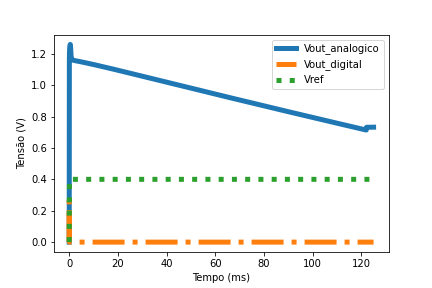
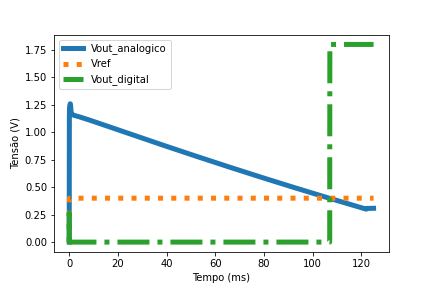
Alterações Davies

diff --git a/RevisaoBibliografica.tex b/RevisaoBibliografica.tex
@@ -14,7 +14,7 @@ Com a invenção do fototransistor e fotodiodo, e o desenvolvimento de tecnologi
 
 Em meados da d\'ecada de 70, o PPS (\textit{Passive Pixel Sensor}) foi desenvolvido, como alternativa aos dispositivos de imagem de tubo a vácuo \cite{Savvas}. Sua constituição se dá por uma matriz de fotodiodos, que convertem uma informação luminosa em el\'etrica, diretamente a um elemento processador de dados analógico, sem a utilização de um componente de amplificação.
 
-Ainda na d\'ecada de 70, os primeiros trabalhos relacionados ao APS foram desenvolvidos utilizando a tecnologia MOS (\textit{Metal-Oxide-Semiconductor}) \cite{Peter}. O APS \'e uma evolução direta do PPS, com a adição de um dispositivo amplificador \cite{EstevaoCoelho}. Amplificar o sinal permite uma maior precisão na aquisição dos dados, al\'em de permitir uma maior miniaturização do fotodiodo, o que leva a uma miniaturização de todo o sistema. Com a evolução da tecnologia CMOS (\textit{Complementary Metal-Oxide-Semiconductor}) na d\'ecada de 90, o APS se tornou mais atraente, por ser facilmente integrado com outros componentes que utilizam-se da mesma tecnologia em um mesmo circuito integrado. O APS vem desde então dominando o mercado de Recepção Óptica \cite{Andre, LidianeCampos}.
+Ainda na d\'ecada de 70, os primeiros trabalhos relacionados ao APS foram desenvolvidos utilizando a tecnologia MOS (\textit{Metal-Oxide-Semiconductor}) \cite{Peter}. O APS \'e uma evolução direta do PPS, com a adição de um dispositivo amplificador \cite{EstevaoCoelho}. Amplificar o sinal permite uma maior precisão na aquisição dos dados, al\'em de permitir uma maior miniaturização do fotodiodo, o que leva a uma miniaturização de todo o sistema. Com a evolução da tecnologia CMOS (\textit{Complementary Metal-Oxide-Semiconductor}) na d\'ecada de 90, o APS se tornou mais atraente, por ser facilmente integrado com outros componentes que utilizam-se da mesma tecnologia em um mesmo circuito integrado.
 
 Amplificadores Operacionais são circuitos amplamente utilizados para o desenvolvimento de sistemas analógicos. Desde a década de 60, o desenvolvimento de circuitos de comunicação óptica exploram a utilização de amplificadores para captação de sinais ópticos, transmissão e regeneração de sinais. A utilização de amplificadores operacionais junto à fotodiodos, possibilitam a conversão de sinais de luz em elétricas, que pode ser então processado e utilizado para fins tanto analógicos quanto digitais. O circuito comumente utilizado no processo de captação óptica de sinais digitais são variações do TIA, tendo papel fundamental para a expansão tecnológica que temos desde então. \cite{ajoy, andrefontoura}.
 
@@ -32,7 +32,7 @@ A Física Quântica nos diz que qualquer material apresenta níveis de energia p
 
 A Teoria das Bandas nasce da observação de que comumente uma grande quantidade de níveis de energia permitidos de um material se apresentam muito próximos entre si. Desses níveis de energia, surge-se o conceito “banda de energia”, que \'e a aproximação que dentro dessa faixa de níveis concentrados, temos uma representação contínua de níveis de energia permitidos. Um material pode apresentar uma grande quantidade de bandas, sendo que duas são de extremo interesse para o estudo de semicondutores: A Banda de condução e a Banda de valência.
 
-A Banda de valência \'e a última do qual se considera que um el\'etron está fortemente ligada a um átomo, não podendo mover livremente ao longo do material. A Banda de condução \'e a primeira banda de níveis acima da de valência, e nele já consideramos que um el\'etron \'e livre para se movimentar no material.
+A Banda de valência \'e a última da qual se considera que um el\'etron está fortemente ligada a um átomo, não podendo mover livremente ao longo do material. A Banda de condução \'e a primeira banda de níveis acima da de Valência, e nele já consideramos que um el\'etron \'e livre para se movimentar no material.
 
 \subsubsection{Fóton}
 
@@ -86,7 +86,9 @@ Onde:
     \item \textit{T} \'e a temperatura presente no fotodiodo [\textit{K}]
 \end{itemize}
 
-O fotodiodo em uma grande faixa apresenta comportamento linear, e \'e a faixa de principal interesse em aplicações como o APS ou o TIA. Com o aumento do n\'umero de f\'otons recebidos, o n\'ivel de corrente tende a ficar cada vez mais negativo, como mostrado na \autoref{fig_respFotodiodo}. Com o aumento ou diminuição expressiva, o circuito começa a se tornar não-linear.
+O fotodiodo em uma grande faixa apresenta comportamento linear em relação a quantidade de corrente fotogerada e o número de fótons recebidos, sendo essa a faixa de principal interesse em aplicações como o APS ou o TIA. Além disso, a corrente fotogerada e a queda de tensão entre os terminais do fotodiodo também tendem a apresentar resposta linear, como mostrado na \autoref{fig_respFotodiodo}. Com o aumento ou diminuição expressiva, o circuito começa a se tornar não-linear.
+
+Nota-se na \autoref{fig_respFotodiodo} que uma corrente e tensão negativa apresenta uma maior faixa de operação antes que ocorra a saturação do circuito. Isso ocorre pois a polarização reversa do fotodiodo aumenta a região de depleção, aprimorando a captação de fótons que podem ser convertidos em um sinal elétrico.
 
 \begin{figure}[!h]
 	\caption{\label{fig_respFotodiodo}Resposta Tensão x Corrente para dada intensidade luminosa no fotodiodo}
@@ -177,48 +179,6 @@ O Efeito Fotoel\'etrico se caracteriza pela excitação de el\'etrons em um mate
 
 Por outro lado, uma diminuição do comprimento de onda tende a excitar cada vez menos el\'etrons, pois a absorção na região de depleção deixa de acontecer, chegando a um ponto que o fotodiodo sature em resposta e não seja mais possível diferenciar diferentes frequências acima desta.
 Sabendo destas limitações, definimos a Resposta Espectral como a faixa de comprimentos de onda do qual o fotodetector \'e capaz de produzir uma fotocorrente correspondente.
-
-\subsubsection{Relação Sinal-Ruído}
-Razão entre a potência de sinal fotogerada pela pot\^encia de ru\'ido no sinal.
-
-\begin{equation}
-    SNR = \frac{P_{SINAL}}{P_{Ru\acute{i}do}}
-\end{equation}
-
-Onde:
-\begin{itemize}
-    \item \textit{SNR} \'e relação sinal-ru\'ido [\textit{Adm.}]
-    \item \textit{P\textsubscript{SINAL}} \'e a pot\^encia do sinal fotogerado [\textit{W}]
-    \item \textit{V\textsubscript{D}} \'e a pot\^encia do ruido do sinal fotogerado [\textit{W}]
-\end{itemize}
-
-\subsubsection{Pot\^encia equivalente ao ru\'ido}
-Pot\^encia da luz incidida no fotodiodo, que gera uma potência de sinal equivalente ao de ruído em largura de 1 Hz
-
-\begin{equation}
-    NEP = P_{Ru\acute{i}do 1 H}
-\end{equation}
-
-Onde:
-\begin{itemize}
-    \item \textit{NEP} \'e a pot\^encia da luz incidida no fotodiodo [\textit{W}]
-    \item \textit{P\textsubscript{Ruído 1 Hz}} \'e a potência do ruído em largura de 1 Hz [\textit{W}]
-\end{itemize}
-
-\subsubsection{Detectividade espec\'ifica}
-Razão entre a raiz quadrada da área fotossensível do diodo, sobre o NEP
-
-\begin{equation}
-    D* = \frac{\sqrt{A.B}}{NEP}
-\end{equation}
-
-Onde:
-
-\begin{itemize}
-    \item \textit{D*} \'e a detectividade espec\'ifica [$cm.\sqrt{Hz}.W^{-1}$]
-    \item \textit{A} \'e a \'area da região fotossens\'ivel do fotodiodo [\textit{cm²}]
-    \item \textit{A} \'e a largura de banda [\textit{Hz}]
-\end{itemize}
 
 \section{Sensor de Pixel Ativo (APS)}
 \label{section:APS}
@@ -380,7 +340,7 @@ Um amplificador de transimped\^ancia \'e um circuito em que dada uma corrente de
 	\begin{center}
 	    \includegraphics[scale=0.3]{Circuitos/TIA.png}
 	\end{center}
-	\legend{Fonte da ilustra ão: Pr\'oprio autor}
+	\legend{Fonte da ilustração: Pr\'oprio autor}
 \end{figure}
 
 Onde:
@@ -420,23 +380,31 @@ Considerando $R_{sh} >> R$, chegamos à \autoref{eqCTIA2}, utilizada no projeto 
 Como a imped\^ancia de entrada do $TIA$ não \'e ideal (infinita) e varia com a frequ\^encia e temperatura, o circuito não se apresenta linear em toda sua banda de operação, o que representa uma variação na resposta em frequ\^encia de acordo com a corrente fotogerada \cite{hamamatsu}.
 Como o pr\'oprio amplificador apresenta capacit\^ancias internas, o circuito \'e tamb\'em limitado em altas frequ\^encias, principalmente pelo produto $R$ vezes $C$, onde C \'e a capacit\^ancia interna vista pelos terminais de $R$ \cite{hamamatsu}.
 
-Dada as duas propriedades, a \autoref{figura_respostaTIA} e a \autoref{figura_respostaTIA2} mostram o comportamento t\'ipico de resposta em frequ\^encia da topologia.
+A \autoref{figura_respostaTIA} e a \autoref{figura_respostaTIA2} mostram o comportamento t\'ipico de resposta em frequ\^encia da topologia. O pico observado na \autoref{figura_respostaTIA} é característico de um sistema de 2ª ordem e acontece devido a capacitância vista nos terminais do fotodiodo, em conjunto com capacitâncias internas ao amplificador e na saída. Para reduzir esse efeito, um capacitor pode ser adicionado em paralelo ao resistor \textit{R}, com valor precisamente calculado de forma a atenuar o pico (formando um circuito denominado \textit{CTIA}). A\autoref{figura_respostaTIA2} mostra as oscilações presentes em resposta a um pulso, que da mesma forma, também podem ser atenuados utilizado o mesmo capacitor.
 
 \begin{figure}[!h]
- \centering
+    \begin{minipage}{0.4\textwidth}
     \centering
     \caption{\label{figura_respostaTIA}Resposta espectral de um TIA}
-	\begin{center}
-	    \includegraphics[scale=0.8]{Imagens/RespostaEspectralTIA.png}
-	\end{center}
+	\includegraphics[scale=0.8]{Imagens/RespostaEspectralTIA.png}
 	\legend{Fonte: \cite{hamamatsu}}
+	\end{minipage}
+	 \hfill
+  \begin{minipage}{0.4\textwidth}
+    \centering
+    \caption{\label{figura_respostaTIA2}Resposta a um pulso em um TIA}
+    \includegraphics[scale=0.8]{Imagens/RespostaEspectralTIA2.png}
+    \legend{Fonte: \cite{hamamatsu}}
+  \end{minipage}
+  
+	
 \end{figure}
 
 \begin{figure}[!h]
     \centering
-    \caption{\label{figura_respostaTIA2}Resposta a um pulso em um TIA}
+    
 	\begin{center}
-	    \includegraphics[scale=0.8]{Imagens/RespostaEspectralTIA2.png}
+	    
 	\end{center}
 	\legend{Fonte: \cite{hamamatsu}}
 \end{figure}

diff --git a/Resumo.tex b/Resumo.tex
@@ -6,7 +6,7 @@
 \setlength{\absparsep}{18pt} % ajusta o espaçamento dos parágrafos do resumo
 \begin{resumo}
 
-O trabalho explora a implementação de Optoreceptores utilizando uma tecnologia \textit{CMOS TSMC 180 nm} da TSMC. São projetados um pixel do tipo APS (Active Sensor Pixel) e um Amplificador de Transimpedância (TIA). O projeto completo do optoreceptor contém quatro instâncias do pixel APS e uma instância do TIA. Além disso, para permitir a avaliação do sistema proposto, um pixel APS e um TIA adicionais foram incluídos no chip. Três APS’s t\^em a função de captação de uma cor distinta (Azul, Verde ou Vermelho) de uma fonte luminosa. O circuito desenvolvido é feito de maneira idêntica para as 3 cores, e um filtro de luz externo é utilizado para que seja captada apenas a cor de interesse. O APS é constituído por um fotodiodo quadrado de dimensões 25x25 µm (625 µm²), e um circuito para conversão da corrente fotogerada para uma tensão de saída. Na saída do APS, o sinal é comparado à uma tensão de referência durante sua digitalização. A tensão de referência é programável, permitindo flexibilidade na digitalização de diferentes intensidades de corrente fotogerada. Um APS é utilizado apenas para fins de teste e seu projeto elétrico é igual aos demais, com exceção de um pino extra do qual pode ser drenada uma corrente elétrica que emula o efeito fotocondutivo, sem a presença da luz. O TIA tem a função de extrair um sinal de referência de relógio a partir de uma fonte luminosa, e servir como referência temporal para os outros circuitos, por exemplo, os pixeis APS’s. O fotodiodo utilizado tem dimensão de 25x25 µm (625 µm²). O circuito foi projetado de forma a permitir uma frequência nominal de operação de 100 kHz. Assim como o APS de teste, existe um segundo TIA com um pino extra para simular uma fotocorrente sem a presença de luz. O layout de diversos circuitos analógicos e de sinais mistos auxiliares para a operação do APS e do TIA foram também projetados. O circuito integrado completo ocupa uma área de 1,6x1,6 mm (2,56 mm²), pois também contém um oscilador de tensão, sensor de temperatura, e acionadores de microLEDS. O projeto foi submetido para fabricação em setembro de 2020, e sua caracterização será possível a partir de março de 2021.
+O trabalho explora a implementação de Optoreceptores utilizando uma tecnologia \textit{CMOS TSMC 180 nm} da TSMC. São projetados um pixel do tipo APS (Active Sensor Pixel) e um Amplificador de Transimpedância (TIA). O projeto completo do optoreceptor contém quatro instâncias do pixel APS e uma instância do TIA. Além disso, para permitir a avaliação do sistema proposto, um pixel APS e um TIA adicionais foram incluídos no chip. Três APS’s t\^em a função de captação de uma cor distinta (Azul, Verde ou Vermelho) de uma fonte luminosa. O circuito desenvolvido é feito de maneira idêntica para as 3 cores, e um filtro de luz externo é utilizado para que seja captada apenas a cor de interesse. O APS é constituído por um fotodiodo quadrado de dimensões 25x25 µm (625 µm²), e um circuito para conversão da corrente fotogerada para uma tensão de saída. Na saída do APS, o sinal é comparado à uma tensão de referência durante sua digitalização. A tensão de referência é programável, permitindo flexibilidade na digitalização de diferentes intensidades de corrente fotogerada. Um APS é utilizado apenas para fins de teste e seu projeto elétrico é igual aos demais, com a adição de um pino extra para injeção de uma corrente elétrica emulando a fotogeração, sem a presença da luz. O TIA tem a função de extrair um sinal de referência de relógio a partir de uma fonte luminosa, e servir como referência temporal para os outros circuitos, por exemplo, os pixeis APS’s. O fotodiodo utilizado tem dimensão de 25x25 µm (625 µm²). O circuito foi projetado de forma a permitir uma frequência nominal de operação de 100 kHz. Assim como o APS de teste, existe um segundo TIA com um pino extra para simular uma fotocorrente sem a presença de luz. O projeto de diversos circuitos analógicos e de sinais mistos auxiliares para a operação do APS e do TIA foram também realizados. O circuito integrado completo ocupa uma área de 1,6x1,6 mm (2,56 mm²), pois também contém um oscilador de tensão, sensor de temperatura, e acionadores de microLEDS. O projeto foi submetido para fabricação em setembro de 2020, e sua caracterização será possível a partir de março de 2021.
 
 \vspace{\onelineskip}
  

diff --git a/ResumoIngles.tex b/ResumoIngles.tex
@@ -3,7 +3,7 @@
 \begin{resumo}[Abstract]
  \begin{otherlanguage*}{english}
 
-This work explores the implementation of Optoreceptors using a \textit{CMOS TSMC 180 nm} technology from TSMC. An APS (Active Sensor Pixel) and a Transimpedance Amplifier (TIA) are proposed. Three APSs have the function of capturing different colors (Blue, Green or Red) from a light source. The developed circuit is made identically for the 3 colors, and an external light filter is used so that only the color of interest is captured. The APS consists of a square photodiode of dimensions 25x25$\mu$m (625$\mu$m²), associated with a circuit for converting the photogenerated current to an output voltage. At the APS output, the signal is compared to a reference voltage during its digitalization. Reference voltage is programmable, allowing flexibility in digitalizing different intensities of photogenerated current. An APS is used only for testing purposes and its electrical design is the same as the others, with the exception of an extra pin from which an electric current that emulates the photoconductive effect can be drained, without the presence of light. The TIA has the function of extracting a clock reference signal from a light source, at the same time as it serves as a time reference for other circuits, for example, APSs pixels. The photodiode used has a dimension of 25x25$\mu$m (625$\mu$m²). The circuit was designed to allow a nominal operating frequency of 100 kHz. Like the test APS, there is a second TIA with an extra pin to simulate a photocurrent without the presence of light. The layout design for several analog circuits and auxiliary mixed signals blocks related to the operation of the APS and the TIA devices were also made on this work. The complete integrated circuit occupies an area of 1.6x1.6 mm (2.56 mm²), as it also contains a voltage oscillator, temperature sensor, and microLEDS actuators. The project was submitted for production in September 2020, and its characterization will be possible from March 2021.
+This work explores the implementation of Optoreceptors using a \textit{CMOS TSMC 180 nm} technology from TSMC. An APS (Active Sensor Pixel) and a Transimpedance Amplifier (TIA) are proposed. Three APSs have the function of capturing different colors (Blue, Green or Red) from a light source. The developed circuit is made identically for the 3 colors, and an external light filter is used so that only the color of interest is captured. The APS consists of a square photodiode of dimensions 25x25$\mu$m (625$\mu$m²), associated with a circuit for converting the photogenerated current to an output voltage. At the APS output, the signal is compared to a reference voltage during its digitalization. Reference voltage is programmable, allowing flexibility in digitalizing different intensities of photogenerated current. An APS is used only for testing purposes and its electrical design is the same as the others, with the addition of an extra pin for injecting an electric current emulating photogeneration, without the presence of light. The TIA has the function of extracting a clock reference signal from a light source, at the same time as it serves as a time reference for other circuits, for example, APSs pixels. The photodiode used has a dimension of 25x25$\mu$m (625$\mu$m²). The circuit was designed to allow a nominal operating frequency of 100 kHz. Like the test APS, there is a second TIA with an extra pin to simulate a photocurrent without the presence of light. The design of several analog circuits and mixed auxiliary signals for the functioning of the APS and TIA were also carried out. The complete integrated circuit occupies an area of 1.6x1.6 mm (2.56 mm²), as it also contains a voltage oscillator, temperature sensor, and microLEDS actuators. The project was submitted for production in September 2020, and its characterization will be possible from March 2021.
 
    \vspace{\onelineskip}
  

diff --git a/Introducao.tex b/Introducao.tex
@@ -6,7 +6,7 @@
 % ----------------------------------------------------------
 Receptores ópticos têm uma vasta gama de aplicações. Podemos utilizá-los para detectar a presença ou ausência de luz no ambiente em determinada faixa de frequência; recepção de sinais luminosos de diferentes cores para construir uma foto em uma câmera; recepção de sinais codificados em luz para realizar uma transmissão de dados sem fio (Li-Fi); detecção de temperatura em um objeto via a sua emissão de luz infravermelha; entre incontáveis outras utilidades. A forma como o circuito do sensor é desenvolvido varia muito com a aplicação, e diversas topologias podem ser utilizadas. Mesmo dentro de uma classe específica de sensores, diversas variações de circuitos podem existir.
 
-Neste trabalho, é desenvolvido o projeto eletrônico dos principais blocos analógicos de um Receptor \'Optico integrado em tecnologia CMOS de 180 nm. Para realizar a recepção dos dados, um pixel ativo do tipo APS (\textit{Active Pixel Sensor}) e um TIA (\textit{Transimpedance Amplifier}) para captação de refer\^encia de temporização foram projetados. O APS e o TIA são topologias muito estudadas e utilizadas, devido principalmente à facilidade com que podem ser integrados em um CI utilizando tecnologia CMOS, sua facilidade de acoplamento com outros circuitos do mesmo CI, e também pelo baixo custo por pixel em comparação a outros tipos de Receptores Ópticos. 
+Neste trabalho, é desenvolvido o projeto eletrônico dos principais blocos analógicos de um Receptor \'Optico integrado em tecnologia CMOS de 180 nm. Para realizar a recepção dos dados, um pixel ativo do tipo APS (\textit{Active Pixel Sensor}) e um TIA (\textit{Transimpedance Amplifier}) para captação de refer\^encia de temporização foram projetados. O APS e o TIA são topologias muito estudadas e utilizadas, devido principalmente à facilidade com que podem ser integrados em um CI utilizando tecnologia CMOS e também sua facilidade de acoplamento com outros circuitos do mesmo CI.
 
 Junto à construção dos blocos citados, diversos outros circuitos são necessários para que se permita o condicionamento e processamento do sinal luminoso transferido para o domínio elétrico. Dentre os circuitos auxiliares que compõem todo um sistema de Pixel Ativo, podemos citar Amplificadores Operacionais, utilizados para amplificar o sinal gerado pelo sensor; circuitos geradores de temporização, que definem o momento de captação de luz do pixel e momento este poderá ser operado; e circuitos de controle que devem ser utilizados para garantir sincronia entre todos elementos do sistema
 

diff --git a/Resultados/Simulacoes.tex b/Resultados/Simulacoes.tex
@@ -29,10 +29,7 @@ Máximo & 30\\
 
 É avaliado qual a resposta do APS com a presença de uma fotocorrente. Para a simulação, foi considerado o modelo apresentado na \autoref{fig_APS_cap}, do qual há uma fonte de corrente em paralelo a um diodo representando a fotogeração. A corrente \textit{Iref} considerada foi de $500$ nA, fornecida pelo bloco \textit{current\_mirror\_nmos}.
 
-O Período de Reset nas simulações é definido para ter uma duração de $1$ us. Ao realizarmos as medições do circuito fabricado, desejamos que o valor da saída do APS esteja estabilizado no seu valor máximo, para que o valor de inicio do estágio esteja sempre fixado. Em simulação isso não é necessário, pois conseguimos calcular a inclinação da curva sem erros significativos.
-
-Dois valores para o Período de Integração foram considerados, como mostrado nas próximas subseções.
-Dois cenários de simulação são descritos nas subseções \ref{sub_sec121} e \ref{sub_sec247} são apresentados, sendo suficientes para comprovação da operação do circuito. O primeiro cenário modela o sinal de fotocorrente gerada com uma onda quadrada de 8 kHz (período de 125 $\mu$s) e valor de amplitude de 5 nA. O segundo cenário modela o sinal de fotocorrente gerada com uma onda quadrada de 4 kHz (período de 250 $\mu$s) e valor de amplitude de 2,5 nA. Esses e outros valores de corrente fotogeradas sugeridos pelo trabalho \cite{LidianeCampos} foram testados na topologia implementada.
+O Período de Reset nas simulações é definido para ter uma duração de $1$ us. Dois cenários de simulação são descritos nas subseções \ref{sub_sec121} e \ref{sub_sec247} são apresentados, sendo suficientes para comprovação da operação do circuito. O primeiro cenário modela o sinal de fotocorrente gerada com uma onda quadrada de 8 kHz (período de 125 $\mu$s) e valor de amplitude de 5 nA. O segundo cenário modela o sinal de fotocorrente gerada com uma onda quadrada de 4 kHz (período de 250 $\mu$s) e valor de amplitude de 2,5 nA. Esses e outros valores de corrente fotogeradas sugeridos pelo trabalho \cite{LidianeCampos} foram testados na topologia implementada.
 
 \subsection{Período de Integração igual a 121 $\mu$s}
 \label{sub_sec121}

diff --git a/Projeto/Espelhos/iref_generator.tex b/Projeto/Espelhos/iref_generator.tex
@@ -93,7 +93,7 @@ Q17b² e Q18b²                                                                 
 O resistor \emph{R} utilizado no bloco apresenta os par\^ametros mostrado na \autoref{\NomeQTab}.
 
 \begin{table}[!h]
-\caption{Resistores do bloco \NomeBloco}
+\caption{Resistor do bloco \NomeBloco}
 \label{\NomeQTab}
 \centering
 \begin{tabular}{cccc}
@@ -106,7 +106,7 @@ R & 3 & 404,4 & 141,996\\
 \legend{Fonte: Produzido pelo autor}
 \end{table}
 
-Os transistores \emph{Q6} e \emph{Q9}, juntos aos resistores \emph{R1} e \emph{R2}, t\^em a finalidade de funcionarem como um dreno de corrente referenciados pelos resistores. Os transistores \emph{Q4} e \emph{Q7} t\^em a finalidade de funcionarem como uma fonte de corrente, referenciados pelo dreno de corrente j\'a mencionado. O transistor \emph{Q10} \'e o braço do espelho de corrente do qual fornece a corrente de sa\'ida.
+Os transistores \emph{Q6} e \emph{Q9}, juntos ao resistor R, t\^em a finalidade de funcionarem como um dreno de corrente referenciados pelo resistor. Os transistores \emph{Q4} e \emph{Q7} t\^em a finalidade de funcionarem como uma fonte de corrente, referenciados pelo dreno de corrente j\'a mencionado. O transistor \emph{Q10} \'e o braço do espelho de corrente do qual fornece a corrente de sa\'ida.
 
 Os transistores \emph{Q5}, \emph{Q8} e \emph{Q11} se apresentam na configuração \emph{Cascode}, que tem o intuito de tornar o espelho de corrente de resposta mais linear, aumentar sua banda e ainda aumentar as suas resist\^encias de entrada e sa\'ida.
 

diff --git a/Projeto/Layout/Chip.tex b/Projeto/Layout/Chip.tex
@@ -2,7 +2,7 @@
 
 O circuito integrado apresentado na \autoref{fig_circintegrado} foi desenvolvido, contendo todo o projeto de Receptor Óptico além de outros projetos desenvolvidos por terceiros. A \autoref{fig_circintegrado_division} mostra de maneira explicita o que representa cada parte do CI, e referências aos outros projetos desenvolvidos.
 
-O circuito integrado apresenta uma área total de 2x2 mm\textsuperscript{2} (2,56 mm\textsuperscript{2}), utilizando um encapsulamento do tipo CLCC44\footnote{Especificações do encapsulamento presentes no \autoref{anexo_clcc44}}. A \autoref{tab_clcc44} apresenta a relação da numeração dos pinos do encapsulamento com os pinos chip, que são distintos, além da identificação de cada pino.
+O circuito integrado apresenta uma área total de 1,6x1,6 mm\textsuperscript{2} (2,56 mm\textsuperscript{2}), utilizando um encapsulamento do tipo CLCC44\footnote{Especificações do encapsulamento presentes no \autoref{anexo_clcc44}}. A \autoref{tab_clcc44} apresenta a relação da numeração dos pinos do encapsulamento com os pinos chip, que são distintos, além da identificação de cada pino.
 
 Diversos capacitores de desacoplamento foram incluídos ao longo de todo chip, com o objetivo de preencher áreas não utilizadas e também filtrar ruídos apresentados nos sinais das fontes de alimentação que chegam e percorrem o chip. 
 

diff --git a/Projeto/APS_digitalized.tex b/Projeto/APS_digitalized.tex
@@ -62,7 +62,7 @@ Utilizando o elemento comparador, podemos ajustar para que a sa\'ida retorne '0'
 
 \begin{equation}
     \label{eq_apsd}
-    P_{FD} = \frac{(AnOut_0-V_{ref})(C_{j}+C_{cn})}{R_{\lambda}t}
+    P_{FD} = \frac{(AnOut_0-V_{ref})(C_{j}+C_{cn})}{R_{\lambda}t_{1-0}}
 \end{equation}
 
 Onde:
@@ -75,6 +75,15 @@ Onde:
     \item \textit{$C_j$} \'e a capacit\^ancia de junção do fotodiodo [\textit{F}]
     \item \textit{$C_{cn}$} \'e a capacit\^ancia do n\'o central do APS [\textit{F}]
     \item $R_{\lambda}$ \'e a responsividade para o comprimento de onda detectado no fotodiodo [$A.W^{-1}$]
-    \item \textit{t} \'e o tempo do qual o n\'ivel l\'ogico mudou de '1' para '0' [\textit{s}]
+    \item $t_{1\_0}$ \'e o tempo do qual o n\'ivel l\'ogico demorou para mudar de '1' para '0', a partir do momento que se inicia o Estágio 2, representado na \autoref{figurataps}, equivalente ao tempo para que a tensão de saída do APS seja igual a Vref [\textit{s}]
     
 \end{itemize}
+
+\begin{figure}[!h]
+ \centering
+    \centering
+    \caption{\label{figurataps}Comparação da saída do APS com a tensão de referência do comparador do $APS\_digitalized$ \NomeBloco} 
+    \includegraphics[scale=0.3]{Imagens/Graficot.png}
+    \legend{Fonte: Produzido pelo autor}
+    \label{\NomePFig}
+\end{figure}

diff --git a/Projeto/Projeto.tex b/Projeto/Projeto.tex
@@ -2,6 +2,15 @@
 
 O capítulo apresenta o projeto realizado nesta dissertação, contendo a explicação do que foi desenvolvido, os circuitos esquemáticos, os parâmetros dos componentes e os layouts dos blocos desenvolvidos. Alguns circuitos não foram incluídos neste capítulo e são apresentados de maneira implícita, devido à sua simplicidade, flexibilidade de implementação em replicações do trabalho, e devido o autor também entender que os mesmos já são de amplo conhecimento na área. No \autoref{blocosadicionais} é possível verificar mais sobre esses blocos e como foram desenvolvidos, caso o leitor sinta a necessidade de entender a sua implementação.
 
+Ao longo de todo capítulo, tabelas serão apresentadas com as seguintes identificações
+
+\begin{itemize}
+\item $W$ é a largura do canal (transistor) ou largura do componente (resistor e diodo) [${\mu}m$]
+\item $L$ é a comprimento do canal (transistor) ou comprimento do componente (resistor e diodo) [${\mu}m$]
+\item $M$ é o número de dispositivos em paralelo [$n$°$ dispositivos$]
+\item $S$ é o número de dispositivos em série [$n$°$ dispositivos$]
+\end{itemize}
+
 \newcommand{\NomeBloco}{NULL}
 \newcommand{\NomeBlocoNoIt}{NULL}
 \newcommand{\NomeBlocoNoUnderline}{NULL}

diff --git a/ListaSiglas.tex b/ListaSiglas.tex
@@ -5,16 +5,16 @@
   
   \item[Adm.] Admensional
   \item[APS] Sensor de Píxel Ativo (do inglês \textit{Active Pixel Sensor})
-  \item[CCD] do inglês \textit{Charge Coupled Devices}
+  \item[CCD] do inglês \textit{Charge Coupled Device}
   \item[CI] Circuito Integrado (do inglês  \textit{Integrated Circuit})
   \item[CMOS] do inglês \textit{Complementary Metal-Oxide-Semiconductor}
   \item[GND] Sinal de Terra (do inglês \textit{ground})
   \item[Li-Fi] do inglês \textit{Light Fidelity}
   \item[IMEC] do inglês \textit{Interuniversity Microelectronics Centre}
   \item[MOS] do inglês \textit{Metal-Oxide-Semiconductor}
-  \item[NMOS] do inglês \textit{N-type (negative-type) Metal-Oxide-Semiconductor}
+  \item[NMOS] do inglês \textit{N-type Metal-Oxide-Semiconductor}
   \item[OptMA\textsuperscript{Lab}] Laboratório de Optrônica e Microtecnologias Aplicadas
-  \item[PMOS] do inglês \textit{P-type (positive-type) Metal-Oxide-Semiconductor}
+  \item[PMOS] do inglês \textit{P-type Metal-Oxide-Semiconductor}
   \item[PPS] do inglês \textit{Passive Pixel Sensor}
   \item[TIA] Amplificador de Transimpedância (do inglês \textit{Transimpedance Amplifier})
   \item[TSMC] do inglês \textit{Taiwan Semiconductor Manufacturing Company}

diff --git a/Agradecimentos.tex b/Agradecimentos.tex
@@ -6,7 +6,7 @@ Gostaria de agradecer a todos aqueles que contribuíram, direta ou indiretamente
 
 Meus pais, que sempre foram exemplos para mim de carinho, dedicação e respeito. Eu definitivamente não chegaria onde cheguei sem vocês. Os considero as pessoas mais importantes da minha vida.
 
-Meu irmãos, que sempre me incentivaram a crescer e a evoluir, de forma que eu possa apreciar com muito mais riqueza todos os momentos de felicidade que já tive e que terei daqui pra frente.
+Meus irmãos, que sempre me incentivaram a crescer e a evoluir, de forma que eu possa apreciar com muito mais riqueza todos os momentos de felicidade que já tive e que terei daqui pra frente.
 
 Meus amigos, que sempre me ajudaram a seguir essa longa jornada chamada vida, trazendo momentos de felicidade e companheirismo, mesmo nos instantes em que pensava não ser mais possível de os alcançar. Obrigado, de verdade, por me mostrarem que sempre terei pessoas com quem eu possa confiar e compartilhar todos meus momentos de alegria e tristeza.
 
